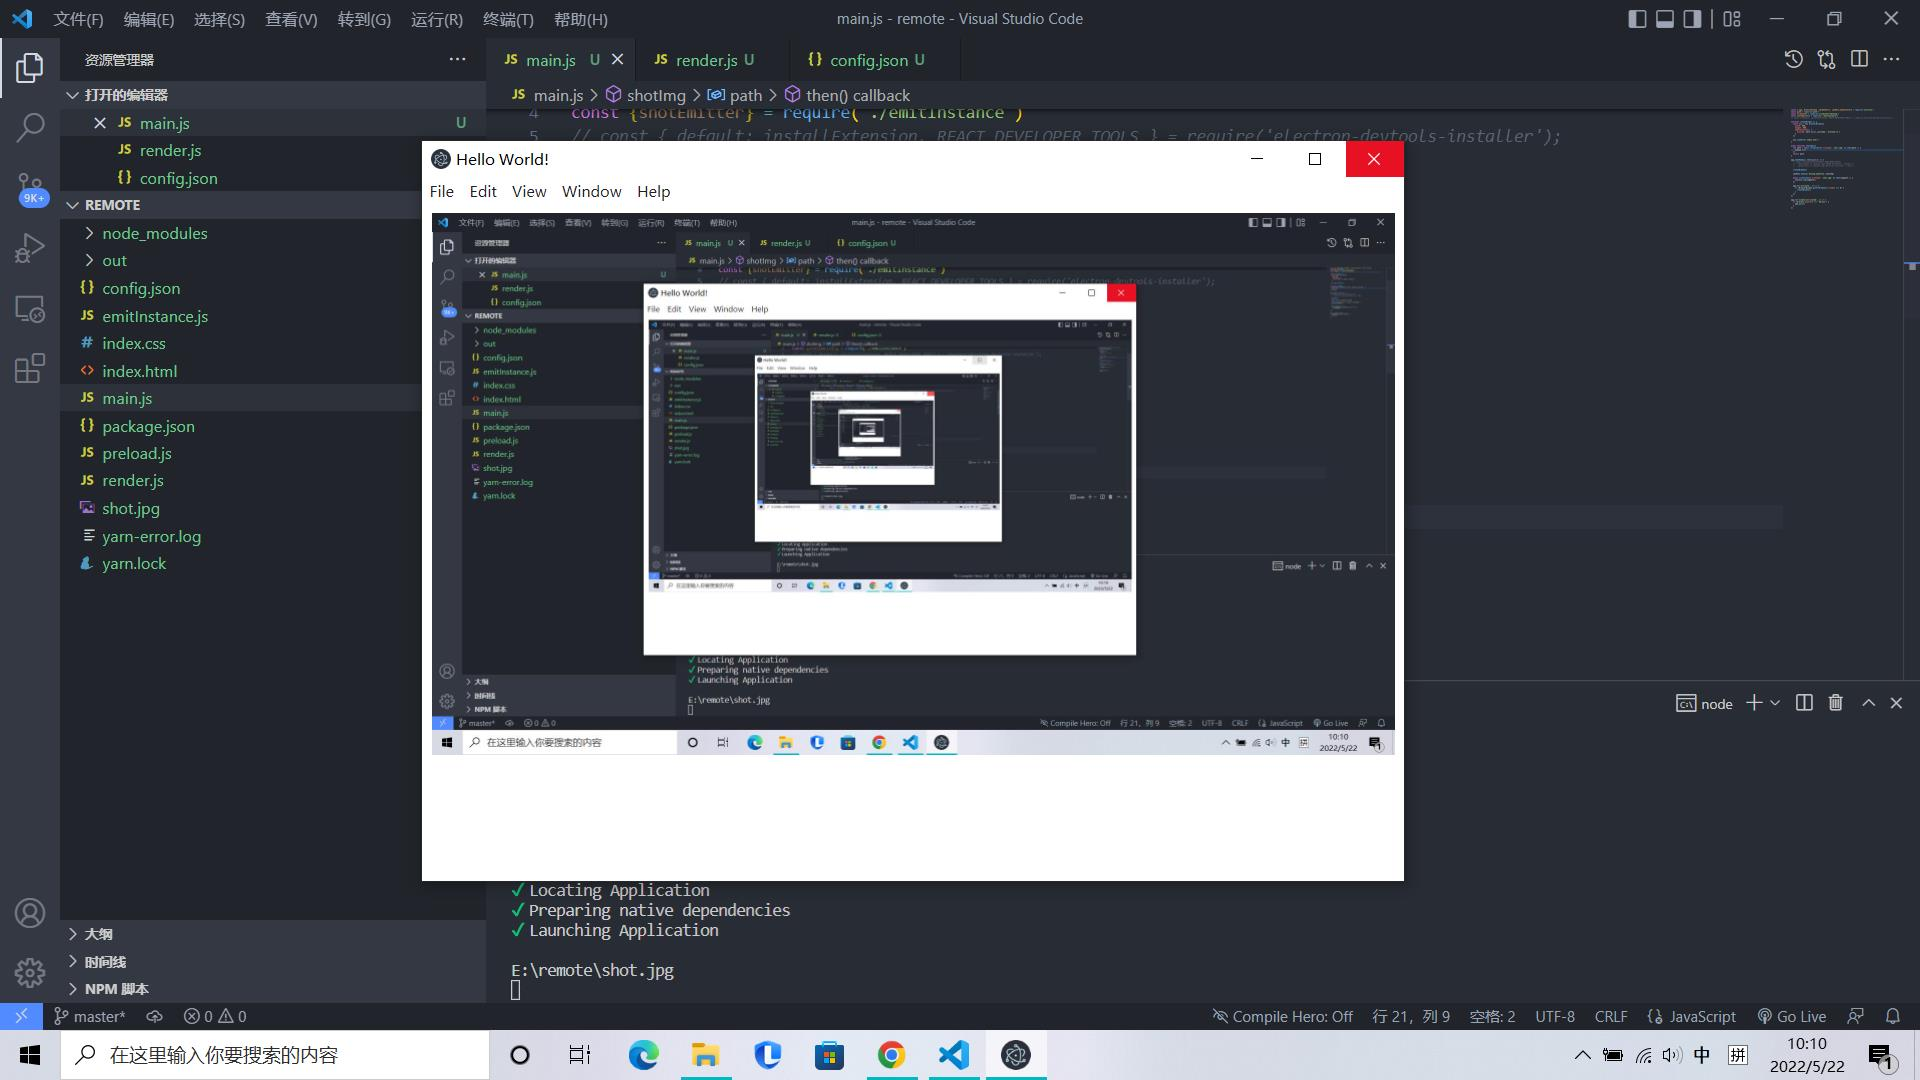
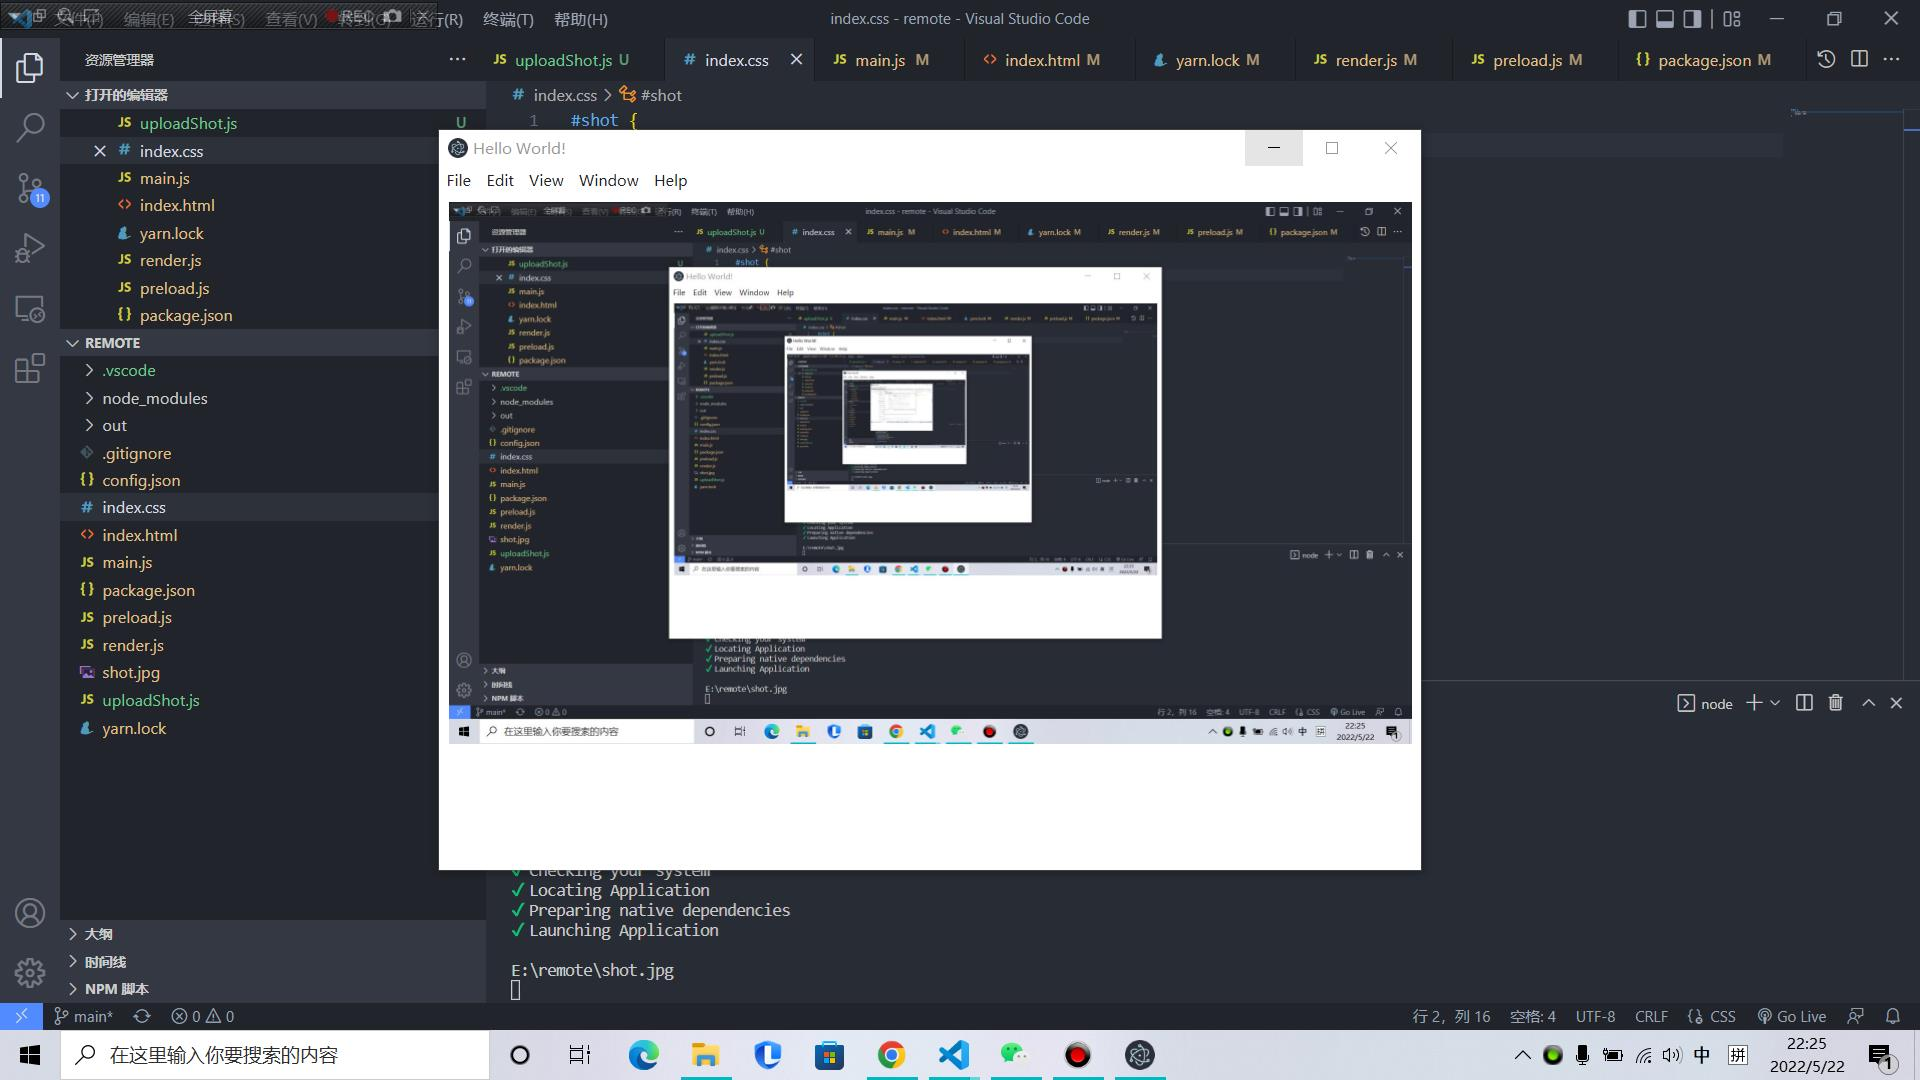
achieve remote access

diff --git a/uploadShot.js b/uploadShot.js
@@ -1,0 +1,58 @@
+var request = require('request');
+var fs = require('fs');
+const path = require("path")
+const file = path.join(__dirname,"shot.jpg")
+
+const data = fs.readFileSync('./config.json', 'utf8')
+const config = JSON.parse(data);
+
+let options = {
+  'method': 'POST',
+  'url': config.uploadShotUrl,
+  formData: {
+    '11': {
+      'value': fs.createReadStream(file),
+      'options': {
+        'filename': file,
+        'contentType': null
+      }
+    }
+  }
+};
+
+request(options, function (error, response) {
+    if (error) throw new Error(error);
+    console.log(response.body);
+});
+
+
+// **version of promise**
+
+// var rp = require('request-promise');
+// var fs = require('fs');
+// const path = require("path")
+
+// const file = path.join(__dirname,"shot.jpg")
+
+// var options = {
+//   'method': 'POST',
+//   'uri': 'http://110.40.204.35:5580/upload/shot',
+//   formData: {
+//     '1': {
+//       'value': fs.createReadStream(file),
+//       'options': {
+//         'filename': file,
+//         'contentType': null
+//       }
+//     }
+//   }
+// };
+
+// module.exports = {
+//     uploadShot:async () => {
+//         await rp(options).then(res=> {
+//             console.log(res);
+//             return
+//         })
+//     }
+// }

diff --git a/render.js b/render.js
@@ -1,21 +1,36 @@
-
-// const btn = document.getElementById('reload')
 const shotElement = document.getElementById('shot')
-let screenshotInterval;
+let screenshotInterval,getShotUrl;
+
+let validateImage = (pathImg) => {
+  return new Promise((resolve, reject) => {
+      let ImgObj = new Image(); //判断图片地址是否有效
+      ImgObj.src = pathImg;
+      ImgObj.onload = (res) => {
+          resolve(pathImg);
+      }
+      ImgObj.onerror = (err) => {
+         reject(err)
+      }
+  })
+}
+
 (async() => {
   await fetch("./config.json").then((response) => {
       return response.json();
     })
     .then((config)=> {
-      console.log(config);
       screenshotInterval = config.screenshotInterval
+      getShotUrl = config.getShotUrl
     });
 
-
+    
 
   setInterval(async () => {
-    const shotPath = await window.electronAPI.openFile()
-    shotElement.setAttribute("src",`${shotPath}?r=${Math.random()}`) 
+    let pathName= `${getShotUrl}?r=${Math.random()}`;
+    await window.electronAPI.openFile()
+    await validateImage(pathName).then(() => {
+      shotElement.setAttribute("src",pathName)
+    })
   },screenshotInterval)
 })()
   

diff --git a/main.js b/main.js
@@ -2,7 +2,7 @@ const { app, BrowserWindow ,ipcRenderer, ipcMain,webContents} = require('electro
 const path = require('path')
 const screenshot = require('screenshot-desktop')
 // const { default: installExtension, REACT_DEVELOPER_TOOLS } = require('electron-devtools-installer');
-
+const { exec } = require('child_process');
 function createWindow () {
   const win = new BrowserWindow({
     width: 800,
@@ -16,9 +16,11 @@ function createWindow () {
 }
 
 async function shotImg(){
-	let path = await screenshot({ filename: 'shot.jpg' }).then(path => {
+	let path = await screenshot({ filename: 'shot.jpg' }).then(async (path) => {
+    exec("node ./uploadShot.js")
     return path
   })
+  
   return path
 }
 

diff --git a/index.html b/index.html
@@ -7,8 +7,6 @@
     <link rel="stylesheet" href="./index.css">
 </head>
 <body>
-    <!-- <h1>Hello World!</h1> -->
-    <!-- <button type="button" id="reload">reload img</button> -->
     <img id="shot" src="./shot.jpg" alt="">
     <script type="module" src="./render.js"></script>
 </body>

diff --git a/preload.js b/preload.js
@@ -1,4 +1,3 @@
-
 const { contextBridge, ipcRenderer } = require('electron')
 
 contextBridge.exposeInMainWorld('electronAPI', {
